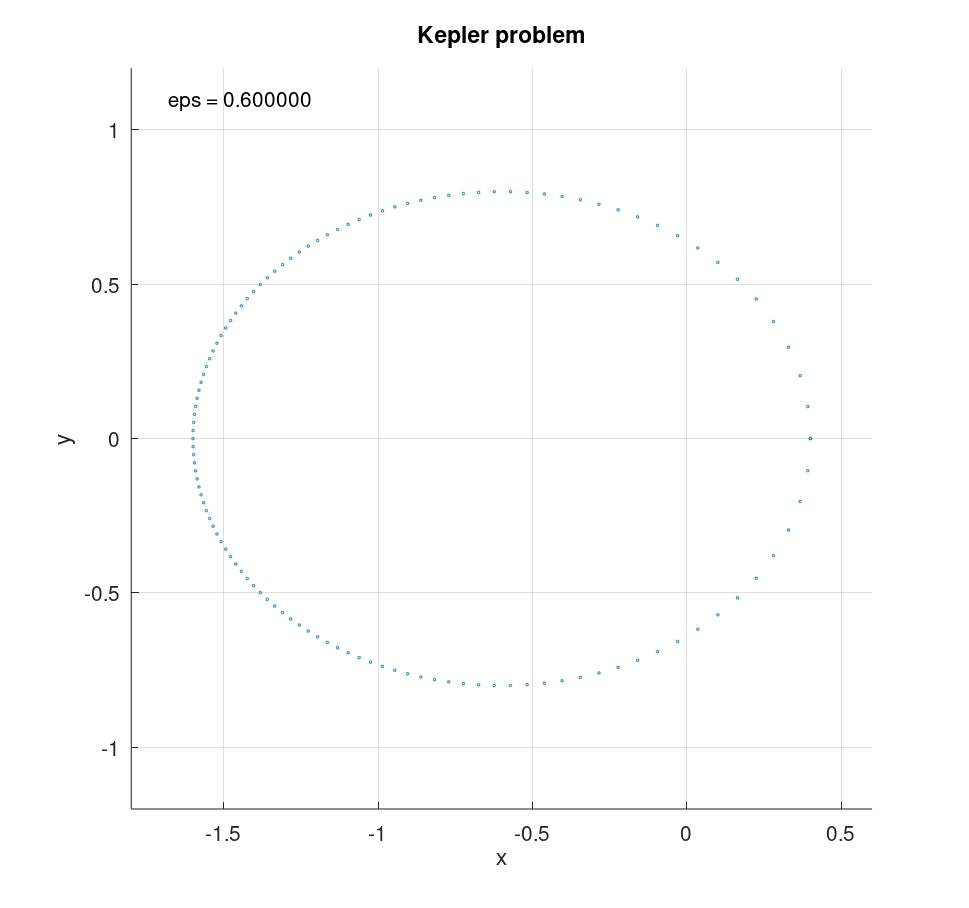
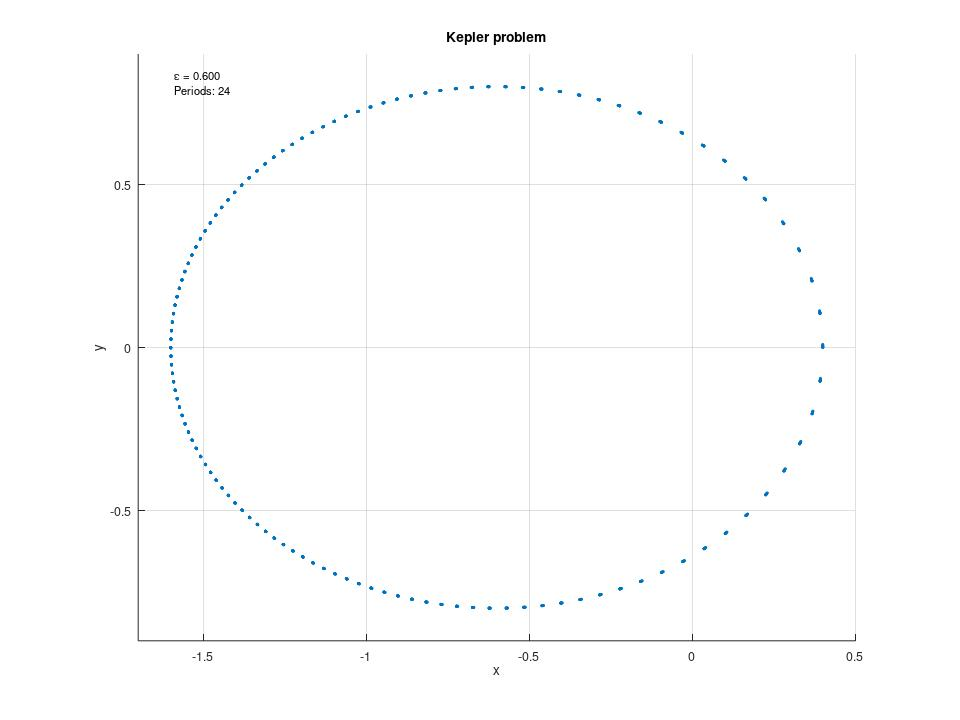
exact solutions

diff --git a/ode/kepler/octave/kepler_sol.m b/ode/kepler/octave/kepler_sol.m
@@ -1,0 +1,128 @@
+# Kepler problem. Exact solution
+
+eps = 0.6
+N = 120
+
+function psi = kepler(phi, eps)
+  EPSILON = 1.0e-13;
+  t0 = 0;
+  t1 = phi;
+  while abs(t1 - t0) > EPSILON
+    t0 = t1;
+    t1 = phi + eps*sin(t0);
+  endwhile
+  psi = t1;
+endfunction
+
+function data = orbit(N, eps)
+  T = 2*pi;
+  for i = 1:N
+    t_i = (i/N)*T;
+    data(i).t = t_i;
+    psi = kepler(t_i, eps);
+    data(i).x1 = cos(psi) - eps;
+    data(i).x2 = sqrt(1-eps^2)*sin(psi);
+    data(i).p1 = -sin(psi)/(1 - eps*cos(psi));
+    data(i).p2 = sqrt(1 - eps^2)*cos(psi)/(1 - eps*cos(psi));
+  endfor
+endfunction
+
+function configuration_plot(data, eps)
+  gap = 0.2;
+  marker_size = 6;
+  hf = figure();
+
+  scatter([data.x1], [data.x2], marker_size);
+  axis equal
+  axis([-1 - eps - gap, 1 - eps + gap, -sqrt(1 - eps^2) - gap, sqrt(1 - eps^2) + gap])
+  set(gca, 'fontsize', 11);
+  set(gca, 'xaxislocation', 'origin');
+  set(gca, 'yaxislocation', 'origin');
+  set(gca, 'xminortick', 'on');
+  set(gca, 'yminortick', 'on');
+  grid on
+  title "Kepler problem. Coordinate orbit"
+  xlabel "x"
+  ylabel "y"
+
+  glim = axis();
+  text(
+    glim(1) + 0.05*(glim(2) - glim(1)),
+    glim(4) - 0.05*(glim(4) - glim(3)),
+    sprintf("\\epsilon = %4.3f\n", eps)
+  );
+
+  print(hf, "orbit-exact.jpg", "-S960,720");
+  print(hf, "orbit-exact.eps", "-S960,720");
+endfunction
+
+function radial_plot(data, eps)
+  gap = 0.05;
+  marker_size = 6;
+  hf = figure();
+
+  k = 1;
+  for el = data
+    sample(k).r = hypot(el.x1, el.x2);
+    sample(k).p = (el.p1*el.x1 + el.x2*el.p2)/hypot(el.x1, el.x2);
+    k++;
+  endfor
+
+  scatter([sample.r], [sample.p], marker_size);
+  axis equal
+  glim = axis();
+  axis([1 - eps - gap, 1 + eps + gap, glim(3), glim(4)])
+  set(gca, 'fontsize', 11);
+  set(gca, 'xaxislocation', 'origin');
+  set(gca, 'yaxislocation', 'origin');
+  set(gca, 'xminortick', 'on');
+  set(gca, 'yminortick', 'on');
+  grid on
+  title "Kepler problem. Radial section"
+  xlabel "r"
+  ylabel "\p_r"
+
+  glim = axis();
+  text(
+    glim(2) - 0.15*(glim(2) - glim(1)),
+    glim(4) - 0.05*(glim(4) - glim(3)),
+    sprintf("\\epsilon = %4.3f\n", eps)
+  );
+
+  print(hf, "radial-exact.jpg", "-S960,720");
+  print(hf, "radial-exact.eps", "-S960,720");
+endfunction
+
+function hodograph_plot(data, eps)
+  marker_size = 6;
+  hf = figure();
+
+  scatter([data.p1], [data.p2], marker_size);
+  axis equal
+  set(gca, 'fontsize', 11);
+  set(gca, 'xaxislocation', 'origin');
+  set(gca, 'yaxislocation', 'origin');
+  set(gca, 'xminortick', 'on');
+  set(gca, 'yminortick', 'on');
+  grid on
+  title "Kepler problem. Momentum hodograph"
+  xlabel "\p_x"
+  ylabel "\p_y"
+
+  glim = axis();
+  text(
+    glim(1) + 0.05*(glim(2) - glim(1)),
+    glim(4) - 0.05*(glim(4) - glim(3)),
+    sprintf("\\epsilon = %4.3f\n", eps)
+  );
+
+  print(hf, "hodograph-exact.jpg", "-S960,720");
+  print(hf, "hodograph-exact.eps", "-S960,720");
+endfunction
+
+data = orbit(N, eps);
+
+configuration_plot(data, eps);
+hodograph_plot(data, eps);
+radial_plot(data, eps);
+

diff --git a/ode/kepler/octave/kepler.m b/ode/kepler/octave/kepler.m
@@ -1,6 +1,8 @@
 # Kepler problem
 
-eps = 0.6;
+eps = 0.6
+N = 120
+K = 24    # Number of periods
 
 q01 = 1 - eps;
 q02 = 0;
@@ -8,28 +10,76 @@ u01 = 0;
 u02 = sqrt((1 + eps)/(1 - eps));
 
 function xdot = f(x,t)
-  r = sqrt(x(1)^2 + x(2)^2);
+  r = hypot(x(1), x(2));
   xdot(1) = x(3);
   xdot(2) = x(4);
   xdot(3) = -x(1)/r^3;
   xdot(4) = -x(2)/r^3;
 endfunction
 
-T = 8*atan(1);
+function e = energy(q1, q2, p1, p2)
+  e = 0.5*(p1.^2 + p2.^2) - 1/hypot(q1, q2);
+endfunction
 
-x = lsode("f", [q01; q02; u01; u02], (t = linspace (0, T, 120 + 1)'));
+function l = angular(q1, q2, p1, p2)
+  l = q1*p2 - p1*q2;
+endfunction
 
-#set term postcript;
-#set output "sample.ps";
-scatter(x(:, [1]), x(:, [2]), 1.5);
+function configuration_plot(x, eps)
+  global K;
+  gap = 0.1;
+  marker_size = 3.5;
 
-axis equal
-axis([-1.8, 0.6, -1.2, 1.2])
-grid on
-title "Kepler problem"
-xlabel "x"
-ylabel "y"
+  hf = figure();
+  scatter(x(:, [1]), x(:, [2]), marker_size);
+  axis equal
+  axis([-1 - eps - gap, 1 - eps + gap, -sqrt(1 - eps^2) - gap, sqrt(1 - eps^2) + gap]);
+  set(gca, 'fontsize', 11);
+  grid on
+  title "Kepler problem"
+  xlabel "x"
+  ylabel "y"
 
-hP = axis();
-ts1 = sprintf("eps = %f\n", eps);
-text(-3*hP(2) + 0.05*(hP(2) - hP(1)), hP(4) - 0.05*(hP(4) - hP(3)), ts1);
+  glim = axis();
+  text(
+    glim(1) + 0.05*(glim(2) - glim(1)),
+    glim(4) - 0.05*(glim(4) - glim(3)),
+    sprintf("\\epsilon = %4.3f\nPeriods: %d", eps, K)
+  );
+  print(hf, "orbit.jpg", "-S960,720");
+  print(hf, "orbit.eps", "-S960,720");
+  #print(hf, "orbit.pdf", "-S960,720");
+endfunction
+
+function invariant_plot(x, t)
+  marker_size = 3.5;
+
+  e0 = energy(x(1, 1), x(1, 2), x(1, 3), x(1, 4));
+  l0 = angular(x(1, 1), x(1, 2), x(1, 3), x(1, 4));
+  m = 1;
+  for el = x'
+    sample(m).e = energy(el(1), el(2), el(3), el(4)) - e0;
+    sample(m).l = angular(el(1), el(2), el(3), el(4)) - l0;
+    m++;
+  endfor
+
+  hf = figure();
+  scatter(t/(2*pi), [sample.e], marker_size);
+  hold on
+  scatter(t/(2*pi), [sample.l], marker_size, "marker", "+");
+  set(gca, 'fontsize', 11);
+  grid on
+  title "Kepler problem"
+  xlabel "Periods"
+  ylabel "Error"
+  legend("energy", "angular momentum");
+
+  print(hf, "error.jpg", "-S960,720");
+  print(hf, "error.eps", "-S960,720");
+endfunction
+
+x = lsode("f", [q01; q02; u01; u02], (t = linspace (0, 2*pi*K, N*K + 1)'));
+
+configuration_plot(x, eps);
+invariant_plot(x, t);
+
